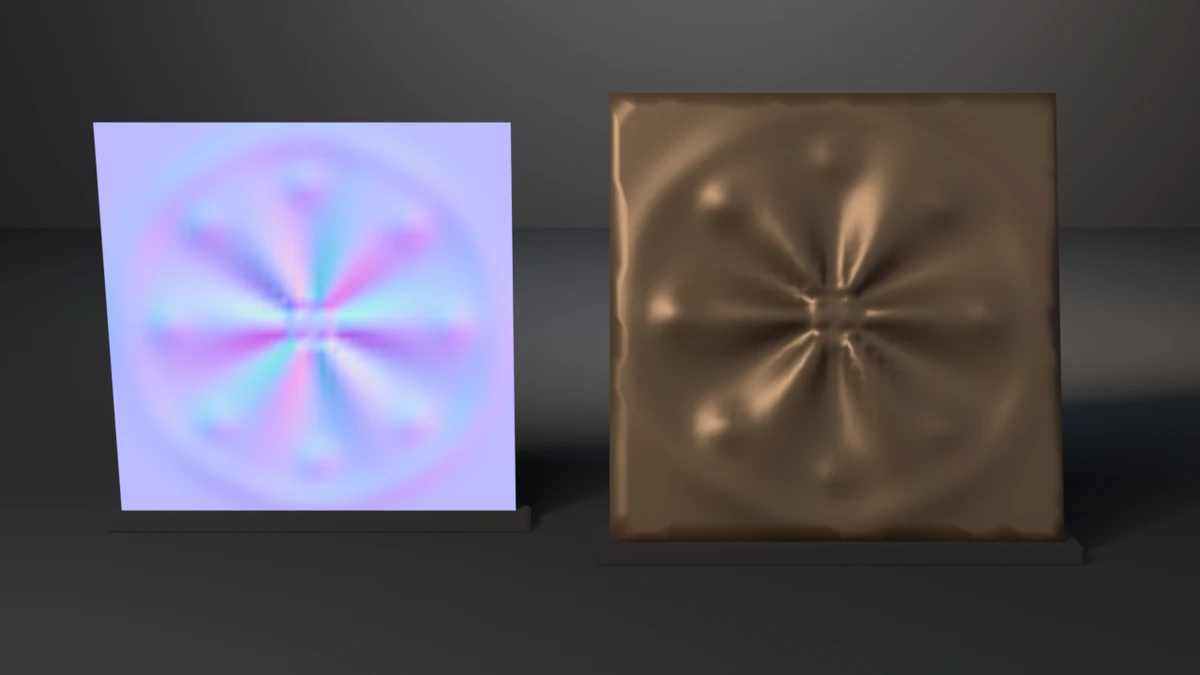
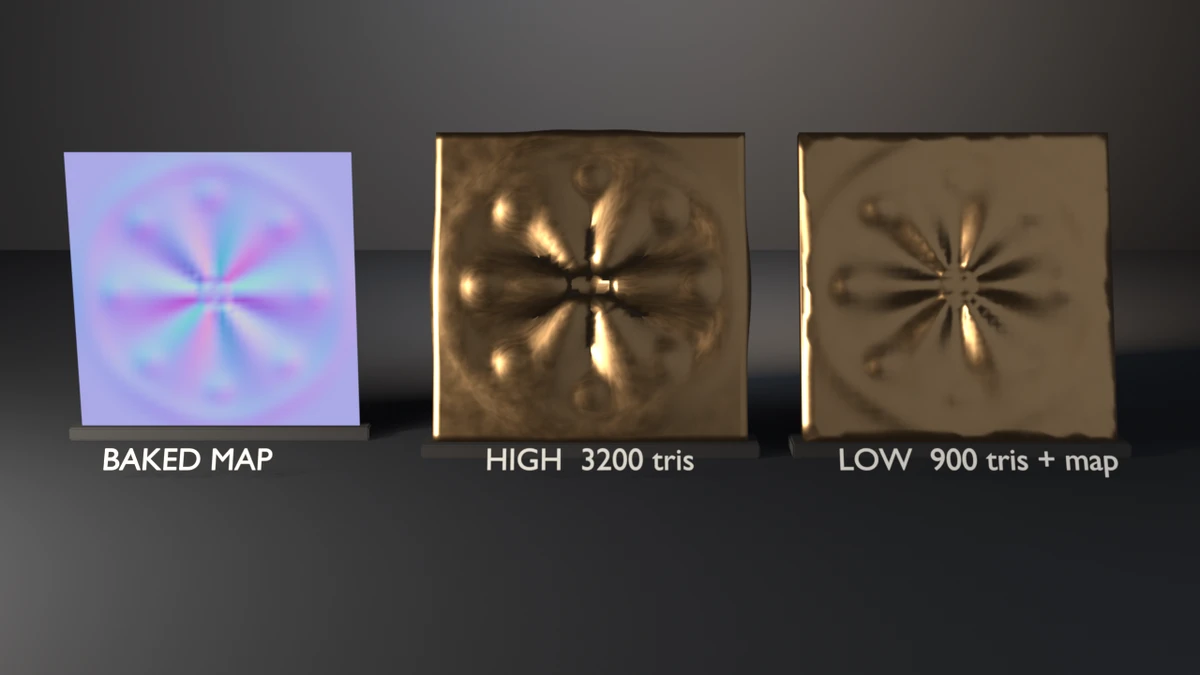
fix(examples): redesign bake-normal-high-to-low as a map, source and LOD triptych
The still showed only the baked map card and the LOD wearing it, so the
thumbnail never showed what the bake was transferred *from*: two flat
squares. The render now stages the pipeline left to right. First the
unlit baked map card, then the high-poly source plate the check bakes from
(previously hidden), then the decimated LOD wearing the map. Floor captions
carry live triangle counts read from the evaluated meshes ("HIGH 3200
tris", "LOW 900 tris + map").

Source and LOD share one cast-bronze material (metallic, noise-mottled
roughness), so geometry versus map is the only difference. A raking key
from low on the left makes both reliefs throw light and shade. The map
card's emission is trimmed 1.0 -> 0.8. Render path only; the bake, the
statistics and every check are unchanged.

Evidence (live runs, local):
- .scratch/blender-5.2.1-windows-x64/blender.exe (Blender 5.2.1 LTS):
  check exit 0, lod_tris 3200 -> 900, detail frac=0.7211 mad=0.09356, flat
  frac=0.0000 mad=0.00277. --flat-source exits 5 ("detail frac 0.0000 <
  0.4"). --output: framing fill x=0.878, margins l=0.053 r=0.056 b=0.294
  t=0.194.
- .scratch/blender-4.5.11-windows-x64/blender.exe (Blender 4.5.11 LTS):
  check plus --output exit 0 with identical bake stats and framing.
- Contact sheet: candidate luma 0.286 / stage 0.216 / warmth -0.100 /
  sat 0.178, against armature-bend 0.243/0.192/-0.144/0.237,
  damped-track-aim 0.237/0.218/+0.105/0.178, and bmesh-gear
[…]

diff --git a/examples/bake-normal-high-to-low/bake_normal_high_to_low.py b/examples/bake-normal-high-to-low/bake_normal_high_to_low.py
@@ -222,10 +222,29 @@ def paint_principled(mat, color, metallic, roughness):
     return bsdf
 
 
+BRONZE = (0.62, 0.36, 0.16, 1.0)
+
+
+def bronze(mat):
+    """Cast bronze: metallic, with a noise-mottled roughness so the relief
+    catches broken highlights instead of one smeared sheen. Render only."""
+    nt = mat.node_tree
+    bsdf = paint_principled(mat, BRONZE, 1.0, 0.34)
+    noise = nt.nodes.new("ShaderNodeTexNoise")
+    noise.inputs["Scale"].default_value = 18.0
+    noise.inputs["Detail"].default_value = 6.0
+    rmap = nt.nodes.new("ShaderNodeMapRange")
+    rmap.inputs["To Min"].default_value = 0.24
+    rmap.inputs["To Max"].default_value = 0.48
+    nt.links.new(noise.outputs["Fac"], rmap.inputs["Value"])
+    nt.links.new(rmap.outputs["Result"], bsdf.inputs["Roughness"])
+    return bsdf
+
+
 def wire_normal_map(mat, tex):
     nodes = mat.node_tree.nodes
     links = mat.node_tree.links
-    bsdf = paint_principled(mat, (0.22, 0.13, 0.07, 1.0), 0.58, 0.44)
+    bsdf = bronze(mat)
     nrm = nodes.new("ShaderNodeNormalMap")
     nrm.space = "TANGENT"
     links.new(tex.outputs["Color"], nrm.inputs["Color"])
@@ -368,7 +387,7 @@ def make_map_card(image, name="BakeCard"):
     tex = nodes.new("ShaderNodeTexImage")
     tex.image = image
     emit = nodes.new("ShaderNodeEmission")
-    emit.inputs["Strength"].default_value = 1.0
+    emit.inputs["Strength"].default_value = 0.8
     out = nodes.new("ShaderNodeOutputMaterial")
     links.new(tex.outputs["Color"], emit.inputs["Color"])
     links.new(emit.outputs["Emission"], out.inputs["Surface"])
@@ -427,30 +446,65 @@ def seat_on_plinth(ob, name):
     return plinth
 
 
-def render_still(low, mat, tex, path, engine):
+def make_label(text, loc, name):
+    """A small text caption lying on the floor in front of a plinth."""
+    cu = bpy.data.curves.new(name, "FONT")
+    cu.body = text
+    cu.size = 0.22
+    cu.align_x, cu.align_y = "CENTER", "CENTER"
+    cu.extrude = 0.004
+    lm = bpy.data.materials.new(name + "Mat")
+    lm.use_nodes = True
+    b = paint_principled(lm, (0.62, 0.60, 0.56, 1.0), 0.0, 0.5)
+    b.inputs["Emission Color"].default_value = (0.9, 0.86, 0.78, 1.0)
+    b.inputs["Emission Strength"].default_value = 0.35
+    cu.materials.append(lm)
+    ob = bpy.data.objects.new(name, cu)
+    ob.location = loc
+    ob.rotation_euler = (math.radians(62.0), 0.0, 0.0)
+    bpy.context.scene.collection.objects.link(ob)
+    return ob
+
+
+def render_still(high, low, mat, tex, path, engine):
+    """Left to right: the baked tangent map, the high-poly source it was baked
+    from, and the decimated LOD wearing it. The source and the LOD share one
+    bronze, so the only difference between them is geometry versus map."""
     scene = bpy.context.scene
     for ob in list(scene.objects):
-        if ob.type == "MESH" and ob != low:
+        if ob.type == "MESH" and ob not in (low, high):
             ob.hide_render = True
             ob.hide_viewport = True
+    high_tris = evaluated_triangle_count(high)
+    low_tris = evaluated_triangle_count(low)
 
     wire_normal_map(mat, tex)
     # The solidify rim is the plate's edge, not baked surface: give it plain
     # bronze. Wearing the map, it sampled the UV border and rendered ragged.
     rim = bpy.data.materials.new("BronzeRim")
     rim.use_nodes = True
-    paint_principled(rim, (0.22, 0.13, 0.07, 1.0), 0.58, 0.44)
+    bronze(rim)
     low.data.materials.append(rim)
-    solid = low.modifiers.new("SolidifyDisplay", "SOLIDIFY")
-    solid.thickness = THICKNESS
-    solid.offset = 1.0
-    solid.material_offset_rim = 1
-    low.rotation_euler.x = math.radians(72.0)
-    low.location = (1.20, 0.0, 1.05)
+    src = bpy.data.materials.new("BronzeSource")
+    src.use_nodes = True
+    bronze(src)
+    high.data.materials.clear()
+    high.data.materials.append(src)
+    for ob, x in ((high, 0.35), (low, 3.05)):
+        solid = ob.modifiers.new("SolidifyDisplay", "SOLIDIFY")
+        solid.thickness = THICKNESS
+        solid.offset = 1.0
+        solid.material_offset_rim = 1 if ob is low else 0
+        ob.rotation_euler.x = math.radians(72.0)
+        ob.location = (x, 0.0, 1.05)
     card = make_map_card(tex.image)
-    card.location = (-1.50, 0.0, 1.05)
+    card.location = (-2.45, 0.0, 1.05)
     plinths = [seat_on_plinth(ob, name) for ob, name in
-               ((card, "CardPlinth"), (low, "PlatePlinth"))]
+               ((card, "CardPlinth"), (high, "SourcePlinth"), (low, "PlatePlinth"))]
+    labels = [make_label(t, (x, -1.05, 0.13), f"Label{i}") for i, (t, x) in enumerate((
+        ("BAKED MAP", -2.45),
+        (f"HIGH  {high_tris} tris", 0.35),
+        (f"LOW  {low_tris} tris + map", 3.05)))]
 
     floor_me = bpy.data.meshes.new("Floor")
     bm = bmesh.new()
@@ -492,18 +546,20 @@ def render_still(low, mat, tex, path, engine):
         ob.rotation_euler = tuple(math.radians(a) for a in rot)
         scene.collection.objects.link(ob)
 
-    light("Key", (-4.0, -5.0, 6.0), 600.0, 4.5, (1.0, 0.96, 0.9), (48, 0, -38))
-    light("Fill", (5.0, -4.0, 3.0), 110.0, 9.0, (0.75, 0.85, 1.0), (62, 0, 50))
-    light("Rim", (0.5, 4.5, 5.0), 350.0, 4.0, (0.6, 0.78, 1.0), (-55, 0, 175))
-    light("Wedge", (2.5, 3.5, 4.2), 480.0, 6.0, (1.0, 0.76, 0.5), (-72, 0, 195))
+    # A raking key from low on the left, so the relief on the source and the
+    # baked relief on the LOD both throw light and shade across the ribs.
+    light("Key", (-6.5, -3.5, 2.6), 900.0, 3.0, (1.0, 0.94, 0.86), (72, 0, -62))
+    light("Fill", (5.0, -4.0, 3.0), 90.0, 9.0, (0.75, 0.85, 1.0), (62, 0, 50))
+    light("Rim", (0.5, 4.5, 5.0), 300.0, 4.0, (0.6, 0.78, 1.0), (-55, 0, 175))
+    light("Wedge", (2.5, 3.5, 4.2), 520.0, 6.0, (1.0, 0.72, 0.45), (-72, 0, 195))
 
     cam_data = bpy.data.cameras.new("Cam")
     cam_data.lens = 50.0
     cam = bpy.data.objects.new("Cam", cam_data)
-    cam.location = (0.0, -8.4, 3.15)
+    cam.location = (0.42, -12.2, 3.4)
     scene.collection.objects.link(cam)
     aim = bpy.data.objects.new("Aim", None)
-    aim.location = (0.0, 0.0, 1.05)
+    aim.location = (0.42, 0.0, 0.78)
     scene.collection.objects.link(aim)
     con = cam.constraints.new("TRACK_TO")
     con.target = aim
@@ -529,8 +585,8 @@ def render_still(low, mat, tex, path, engine):
     fcode = gallery_framing.check_framing(
         scene,
         cam,
-        hero=[card, low],
-        elements=[card, low] + plinths,
+        hero=[card, high, low],
+        elements=[card, high, low] + plinths + labels,
         stage=[floor, wall],
     )
     if fcode:
@@ -567,7 +623,8 @@ def main():
         tex = next(
             n for n in mat.node_tree.nodes if n.type == "TEX_IMAGE" and n.image == img
         )
-        rcode = render_still(low, mat, tex, os.path.abspath(args.output), args.engine)
+        rcode = render_still(high, low, mat, tex, os.path.abspath(args.output),
+                             args.engine)
         if rcode:
             return rcode
         print(f"rendered still {args.output}")

diff --git a/examples/bake-normal-high-to-low/README.md b/examples/bake-normal-high-to-low/README.md
@@ -37,14 +37,20 @@ cage target; collapse keeps UVs) and [`image-pixels-testcard`](../image-pixels-t
 (`save_render`, not `Image.save()`, if you persist the datablock). UV transfer
 and atlas packing are out of scope.
 
-The still stages the baked map as an unlit card beside the LOD wearing it.
-If the bake were flat, the card would be uniform `(128, 128, 255)` periwinkle
-and the plate would shade like the undisplaced cage.
+The still reads left to right as the pipeline: the baked map as an unlit
+card, the high-poly source it was baked from, and the collapse-decimated
+LOD wearing it. Source and LOD share one cast-bronze material, so the only
+difference between them is real geometry versus the map. The floor
+captions carry live triangle counts from the evaluated meshes (3200 vs
+900). A raking key from low on the left makes both the real relief and the
+baked relief throw light and shade. If the bake were flat, the card would
+be uniform `(128, 128, 255)` periwinkle and the right plate would shade
+like the undisplaced cage while the middle one kept its ribs.
 
 Staging is render-only. Each panel stands in a low display plinth, lifted
 so its lowest evaluated point sits 35 mm in the slot. Both panels used to
 balance on an edge, and the leaning plate pierced the floor. The
-solidify rim wears plain bronze instead of the baked map. The slight
+LOD's solidify rim wears plain bronze instead of the baked map. The slight
 waviness along the plate's border is the bake itself, normal-map shading
 inside the UV margin, and is left as the map produces it. Bake
 statistics are unchanged: frac 0.7211, MAD 0.09356 on all three binaries.

diff --git a/README.md b/README.md
@@ -913,7 +913,7 @@ makes the density drop visible.
 </tr>
 <tr>
 <td width="46%" valign="middle">
-<a href="examples/bake-normal-high-to-low/"><img src="examples/bake-normal-high-to-low/preview.webp" alt="Bake normal high to low: an unlit tangent-space normal map card of a six-lobe riveted hatch beside the collapse-decimated bronze plate wearing that map, dark studio" /></a>
+<a href="examples/bake-normal-high-to-low/"><img src="examples/bake-normal-high-to-low/preview.webp" alt="Bake normal high to low: an unlit tangent-space normal map card, the 3200-tri ribbed bronze source plate, and the 900-tri collapse-decimated plate wearing that map, captioned on a dark studio floor" /></a>
 </td>
 <td valign="middle">
 
